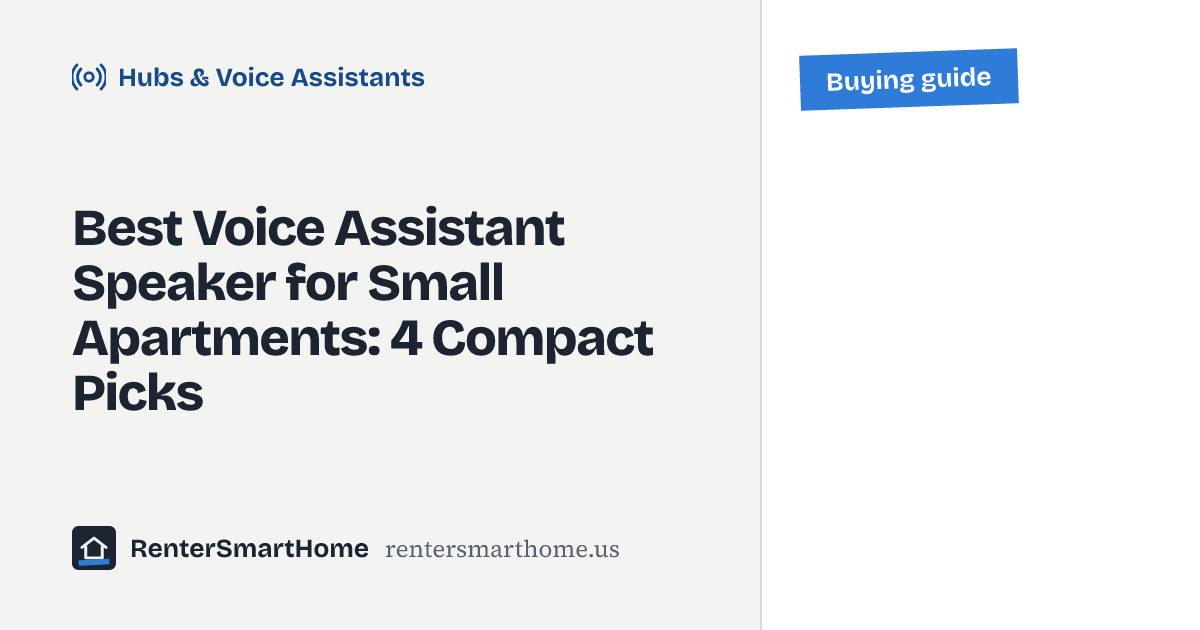
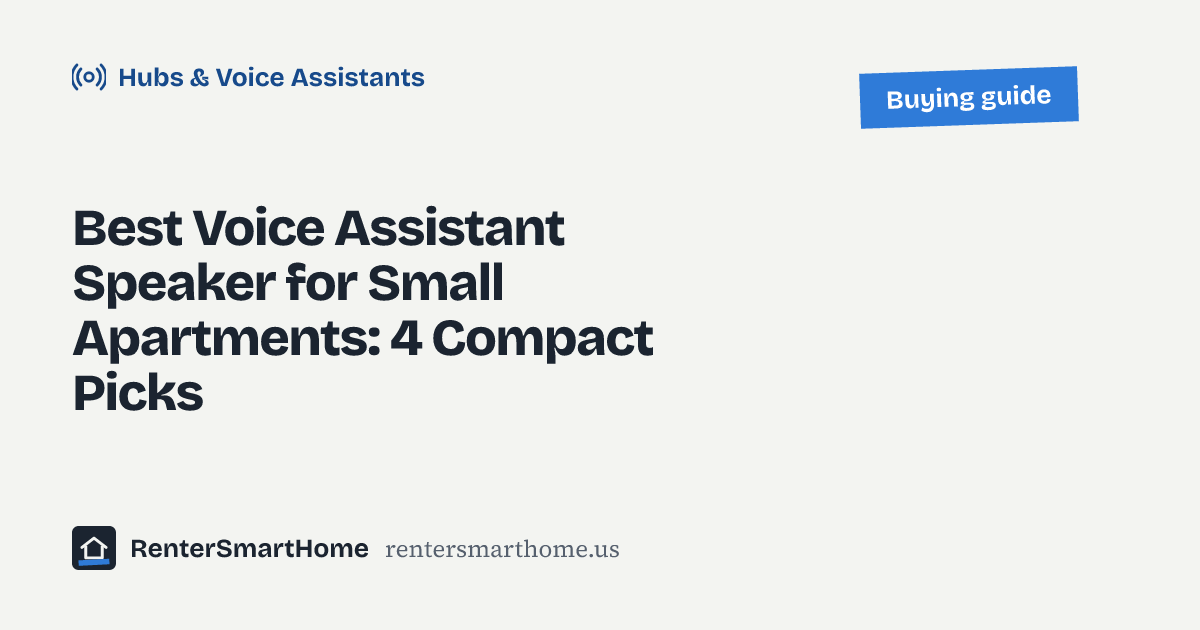
Article header: product photo blends into the graphic (white background removed with multiply blending), no panel; header image cache-busted by content hash
Claude-Session: https://claude.ai/code/session_01TD7XAAbqJRP3B3BmqRVTG4

Changed region(s): [[0.6475, 0.0603, 0.925, 0.2111]]

diff --git a/src/styles/global.css b/src/styles/global.css
@@ -409,6 +409,6 @@ h3 { font-size: var(--s1); letter-spacing: -.01em; }
 .hero-composite { margin: 24px 0 0; max-width: 860px; }
 .hc-frame { position: relative; aspect-ratio: 1200 / 630; border: 1px solid var(--rule); display: block; border-radius: var(--r-box); overflow: hidden; background: var(--drywall); }
 .hc-base { position: absolute; inset: 0; width: 100%; height: 100%; }
-.hc-product { position: absolute; left: 66.5%; top: 21%; width: 30.5%; height: 70%; display: flex; align-items: center; justify-content: center; }
-.hc-product img { max-width: 100%; max-height: 100%; width: auto; height: auto; object-fit: contain; }
+.hc-product { position: absolute; left: 63%; top: 22%; width: 34%; height: 68%; display: flex; align-items: center; justify-content: center; }
+.hc-product img { max-width: 100%; max-height: 100%; width: auto; height: auto; object-fit: contain; mix-blend-mode: multiply; }
 .hero-composite figcaption { padding: 8px 2px 0; font-family: var(--text); font-size: .88rem; color: var(--slate); }
